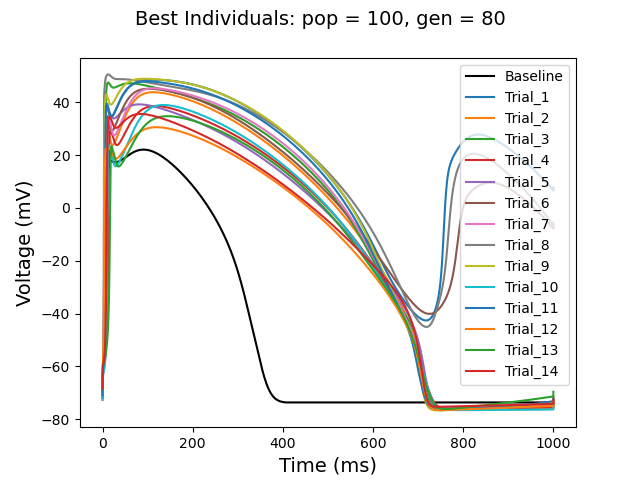
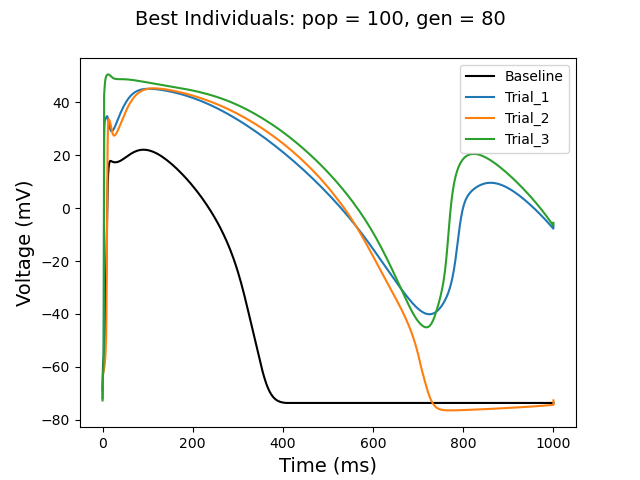
newplot

Changed region(s): [[0.1562, 0.1562, 0.875, 0.875], [0.7188, 0.7188, 0.75, 0.7812], [0.0625, 0.5312, 0.125, 0.5625]]

diff --git a/Plot_GA_1/plot_GA.py b/Plot_GA_1/plot_GA.py
@@ -3,7 +3,7 @@ import myokit
 import matplotlib.pyplot as plt
 import pandas as pd
 import numpy as np
-from functions import baseline_run, plot_GA, plot_cond, ind_excel, err_excel
+from functions import baseline_run, plot_GA, ind_excel, err_excel
 import seaborn as sns
 from math import log10
 
@@ -13,9 +13,9 @@ from math import log10
 t, v = baseline_run()
 plt.plot(t, v, '-k', label = 'Baseline')
 
-ind_1, ind_2, ind_3, ind_4, ind_5, ind_6, ind_7, ind_8, ind_9, ind_10, ind_11, ind_12, ind_13, ind_14 = ind_excel()
+ind_6, ind_7, ind_8 = ind_excel()
 
-pop = [ind_1, ind_2, ind_3, ind_4, ind_5, ind_6, ind_7, ind_8, ind_9, ind_10, ind_11, ind_12, ind_13, ind_14]
+pop = [ind_6, ind_7, ind_8]
 
 for i in list(range(0,len(pop))):
     t, v = plot_GA(pop[i])
@@ -32,10 +32,9 @@ plt.show()
 ############ PLOT BEST ERROR ################
 gen = [i for i in list(range(1,80))]
 
-err_1, err_2, err_3, err_4, err_5, err_6, err_7, err_8, err_9, err_10, err_11, err_12, err_13, err_14 = err_excel()
+err_6, err_7, err_8 = err_excel()
 
-err = [err_1, err_2, err_3, err_4, err_5, err_6, err_7, 
-err_8, err_9, err_10, err_11, err_12, err_13, err_14]
+err = [err_6, err_7, err_8]
 
 for i in list(range(0,len(err))):
     best_err = list(err[i]['Best Error'])
@@ -45,17 +44,18 @@ plt.legend()
 plt.ylabel('Error', fontsize=14)
 plt.xlabel('Generation', fontsize=14)
 plt.suptitle('Best Errors', fontsize=14)
+plt.suptitle('Best Errors')
 plt.ylim(0,8000)
 plt.savefig('Plot_Best_Errors.png')
 plt.show()
 
 #%% 
 ########## PLOT CONDUCTANCES ############
-pop = [ind_1, ind_2, ind_3, ind_4, ind_5, ind_6, ind_7, ind_8, ind_9, ind_10, ind_11, ind_12, ind_13, ind_14]
+pop = [ind_6, ind_7, ind_8]
 trials = []
 
 for i in list(range(0,len(pop))):
-    trials.append(f'Trial_{i}')
+    trials.append(f'Trial_{i+1}')
 
 keys = [k for k in pop[0][0].keys()]
 empty_arrs = [[] for i in range(len(keys))]
@@ -66,17 +66,22 @@ for ind in pop:
             all_ind_dict[k].append(v)
 
 curr_x = 0
-n = 0
+m = 0
+c = ['lightsteelblue', 'cornflowerblue', 'royalblue', 'blue', 'mediumblue', 'darkblue', 
+'lightgreen', 'limegreen','mediumseagreen', 'green', 'darkgreen', 'r']
 
 for k, conds in all_ind_dict.items():
     for i, g in enumerate(conds):
         g = log10(g)
         x = curr_x + np.random.normal(0, .01)
-        plt.scatter(x, g) #label = trials[n])
+        if m == 0:
+            plt.scatter(x, g, color=c[i], label = trials[i])
+            plt.legend()
+        else:
+            plt.scatter(x, g, color=c[i])
+    m = 1
 
     curr_x += 1
-
-    n += 1
 
 curr_x = 0
 
@@ -84,8 +89,8 @@ plt.hlines(0, -.5, (len(keys)-.5), colors='grey', linestyle='--')
 plt.xticks([i for i in range(0, len(keys))], ['GKs', 'GCaL', 'GKr', 'GNa', 'Gto', 'GK1', 'Gf','Gleak'], fontsize=10)
 plt.ylim(log10(0.1), log10(10))
 plt.ylabel('Log10 Conductance', fontsize=14)
-#plt.legend()
-plt.savefig('Conductances.png')
+plt.suptitle('Conductances_HCM')
+plt.savefig('Conductances_HCM.png')
 plt.show()
 
 # %%

diff --git a/Plot_GA_1/functions.py b/Plot_GA_1/functions.py
@@ -123,29 +123,10 @@ def build_pop(pop):
     
     return ind_list
 
-#%%
-
-def plot_cond(ind, lab):
-
-    curr_x = 0
-    keys = [k for k, v in ind[0].items()]
-
-    for k, g in ind[0].items():
-        g = log10(g)
-        x = curr_x + np.random.normal(0, .01)
-        plt.scatter(x, g, label = f'Trial_{lab}')
-        curr_x += 1
-
-    curr_x = 0
-
-    plt.xticks([i for i in range(0, len(keys))], ['GKs', 'GCaL', 'GKr', 'GNa', 'Gto', 'GK1', 'Gf','Gleak'], fontsize=10)
-    plt.ylim(log10(0.1), log10(10))
-    plt.ylabel('Log10 Conductance', fontsize=14)
-    plt.legend()
 
 #%%
 def ind_excel():
-    ind_1 = pd.read_excel('Best_ind_1.xlsx')
+    '''ind_1 = pd.read_excel('Best_ind_1.xlsx')
     ind_1 = ind_1.to_dict('index')
 
     ind_2 = pd.read_excel('Best_ind_2.xlsx')
@@ -158,7 +139,7 @@ def ind_excel():
     ind_4 = ind_4.to_dict('index')
 
     ind_5 = pd.read_excel('Best_ind_5.xlsx')
-    ind_5 = ind_5.to_dict('index')
+    ind_5 = ind_5.to_dict('index')'''
 
     ind_6 = pd.read_excel('Best_ind_6.xlsx')
     ind_6 = ind_6.to_dict('index')
@@ -169,7 +150,7 @@ def ind_excel():
     ind_8 = pd.read_excel('Best_ind_8.xlsx')
     ind_8 = ind_8.to_dict('index')
 
-    ind_9 = pd.read_excel('Best_ind_9.xlsx')
+    '''ind_9 = pd.read_excel('Best_ind_9.xlsx')
     ind_9 = ind_9.to_dict('index')
 
     ind_10 = pd.read_excel('Best_ind_10.xlsx')
@@ -185,13 +166,13 @@ def ind_excel():
     ind_13 = ind_13.to_dict('index')
 
     ind_14 = pd.read_excel('Best_ind_14.xlsx')
-    ind_14 = ind_14.to_dict('index')
+    ind_14 = ind_14.to_dict('index')'''
 
-    return ind_1, ind_2, ind_3, ind_4, ind_5, ind_6, ind_7, ind_8, ind_9, ind_10, ind_11, ind_12, ind_13, ind_14
+    return ind_6, ind_7, ind_8 #ind_9, ind_10, ind_11, ind_12, ind_13, ind_14
 
 #%%
 def err_excel():
-    err_1 = pd.read_excel('Errors_1.xlsx')
+    '''err_1 = pd.read_excel('Errors_1.xlsx')
 
     err_2 = pd.read_excel('Errors_2.xlsx')
 
@@ -199,7 +180,7 @@ def err_excel():
 
     err_4 = pd.read_excel('Errors_4.xlsx')
 
-    err_5 = pd.read_excel('Errors_5.xlsx')
+    err_5 = pd.read_excel('Errors_5.xlsx')'''
 
     err_6 = pd.read_excel('Errors_6.xlsx')
 
@@ -207,7 +188,7 @@ def err_excel():
 
     err_8 = pd.read_excel('Errors_8.xlsx')
 
-    err_9 = pd.read_excel('Errors_9.xlsx')
+    '''err_9 = pd.read_excel('Errors_9.xlsx')
 
     err_10 = pd.read_excel('Errors_10.xlsx')
 
@@ -217,6 +198,6 @@ def err_excel():
 
     err_13 = pd.read_excel('Errors_13.xlsx')
     
-    err_14 = pd.read_excel('Errors_14.xlsx')
+    err_14 = pd.read_excel('Errors_14.xlsx')'''
 
-    return err_1, err_2, err_3, err_4, err_5, err_6, err_7, err_8, err_9, err_10, err_11, err_12, err_13, err_14
+    return err_6, err_7, err_8 #err_9, err_10, err_11, err_12, err_13, err_14
